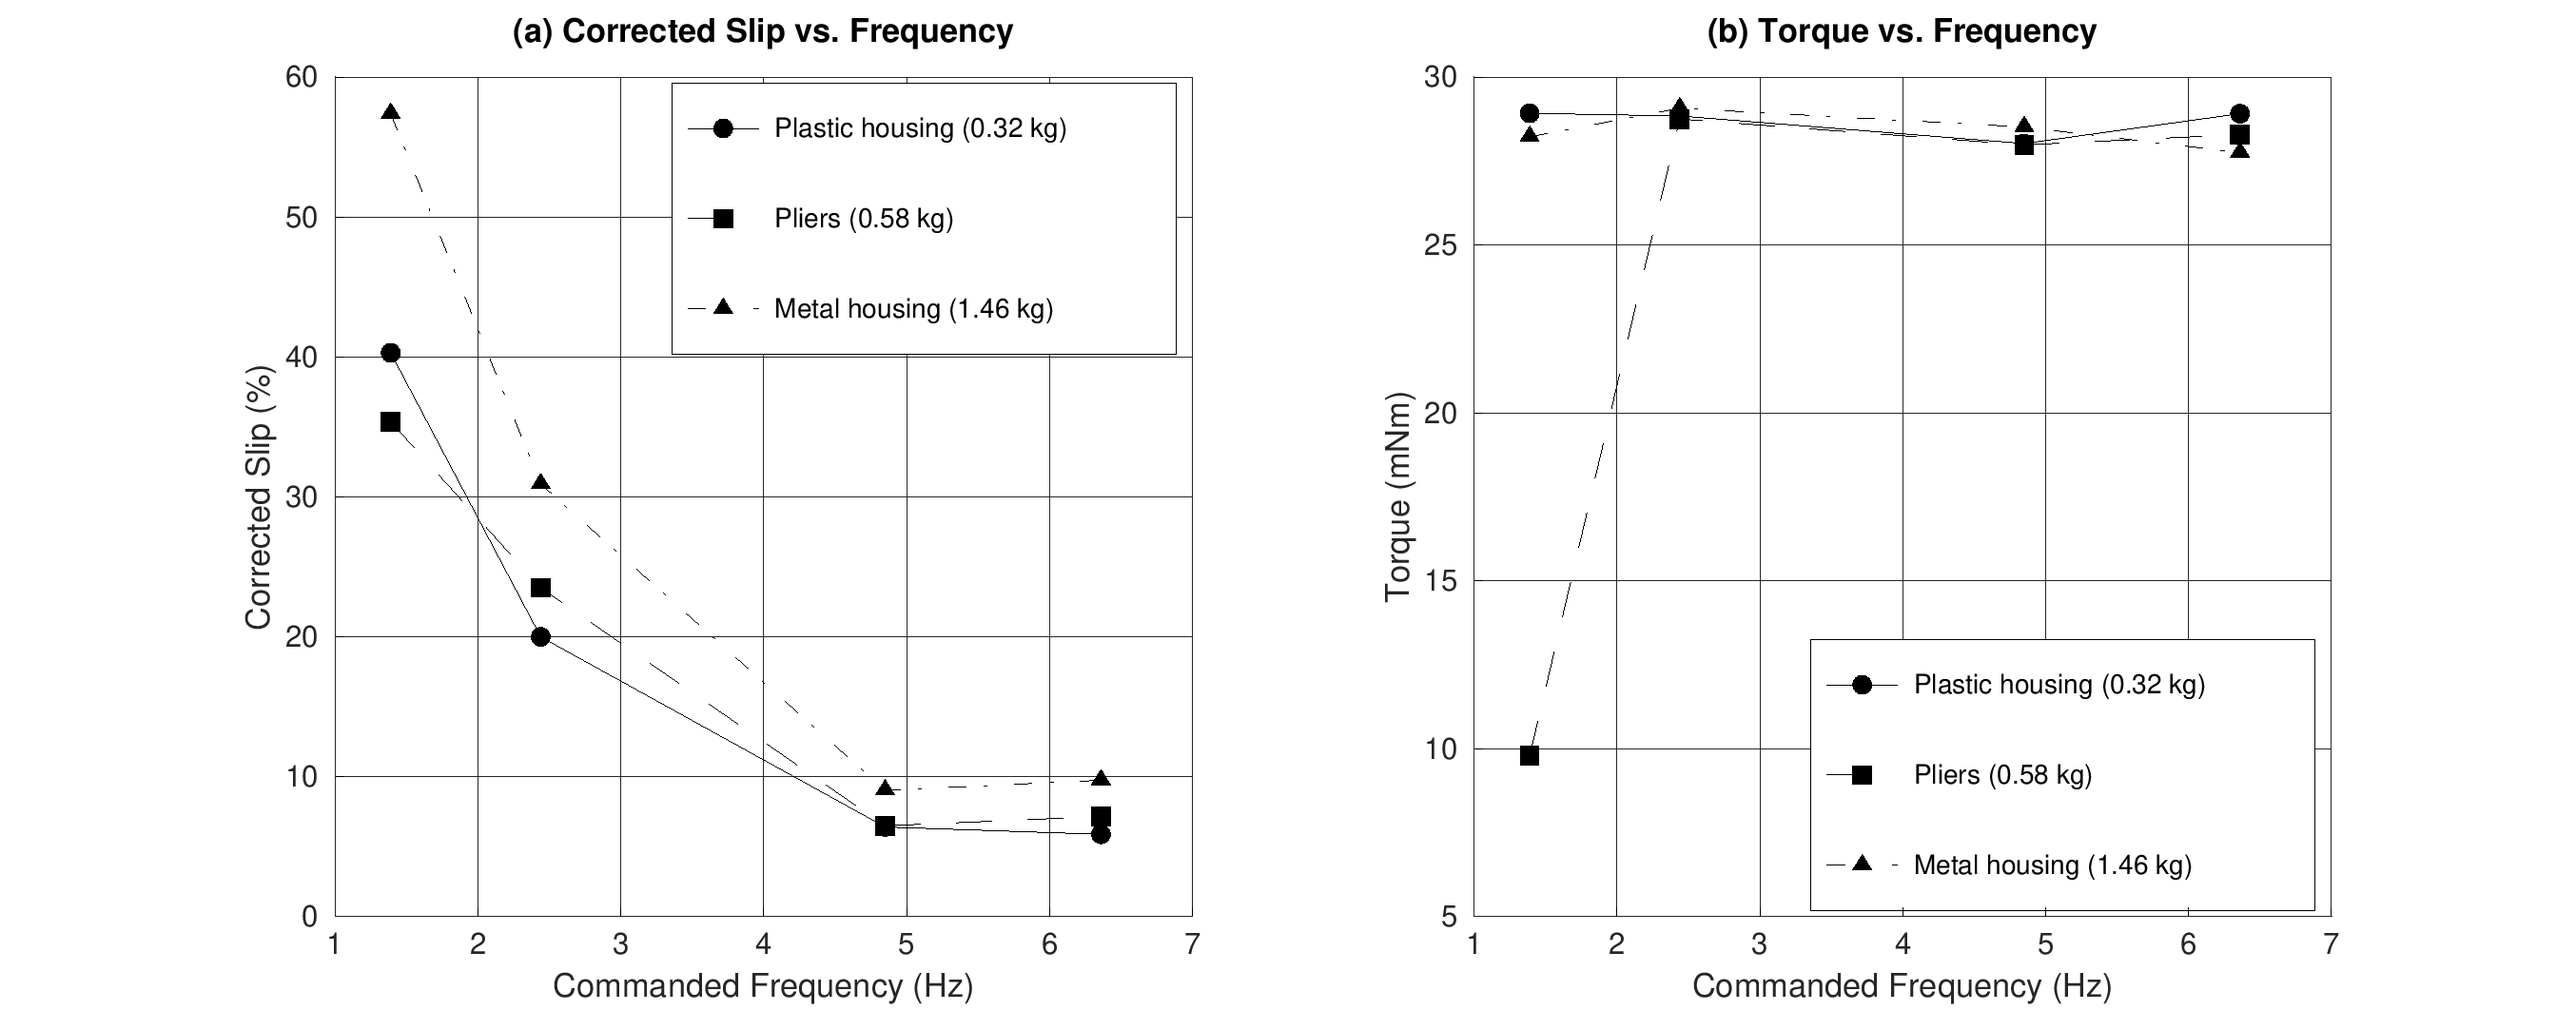
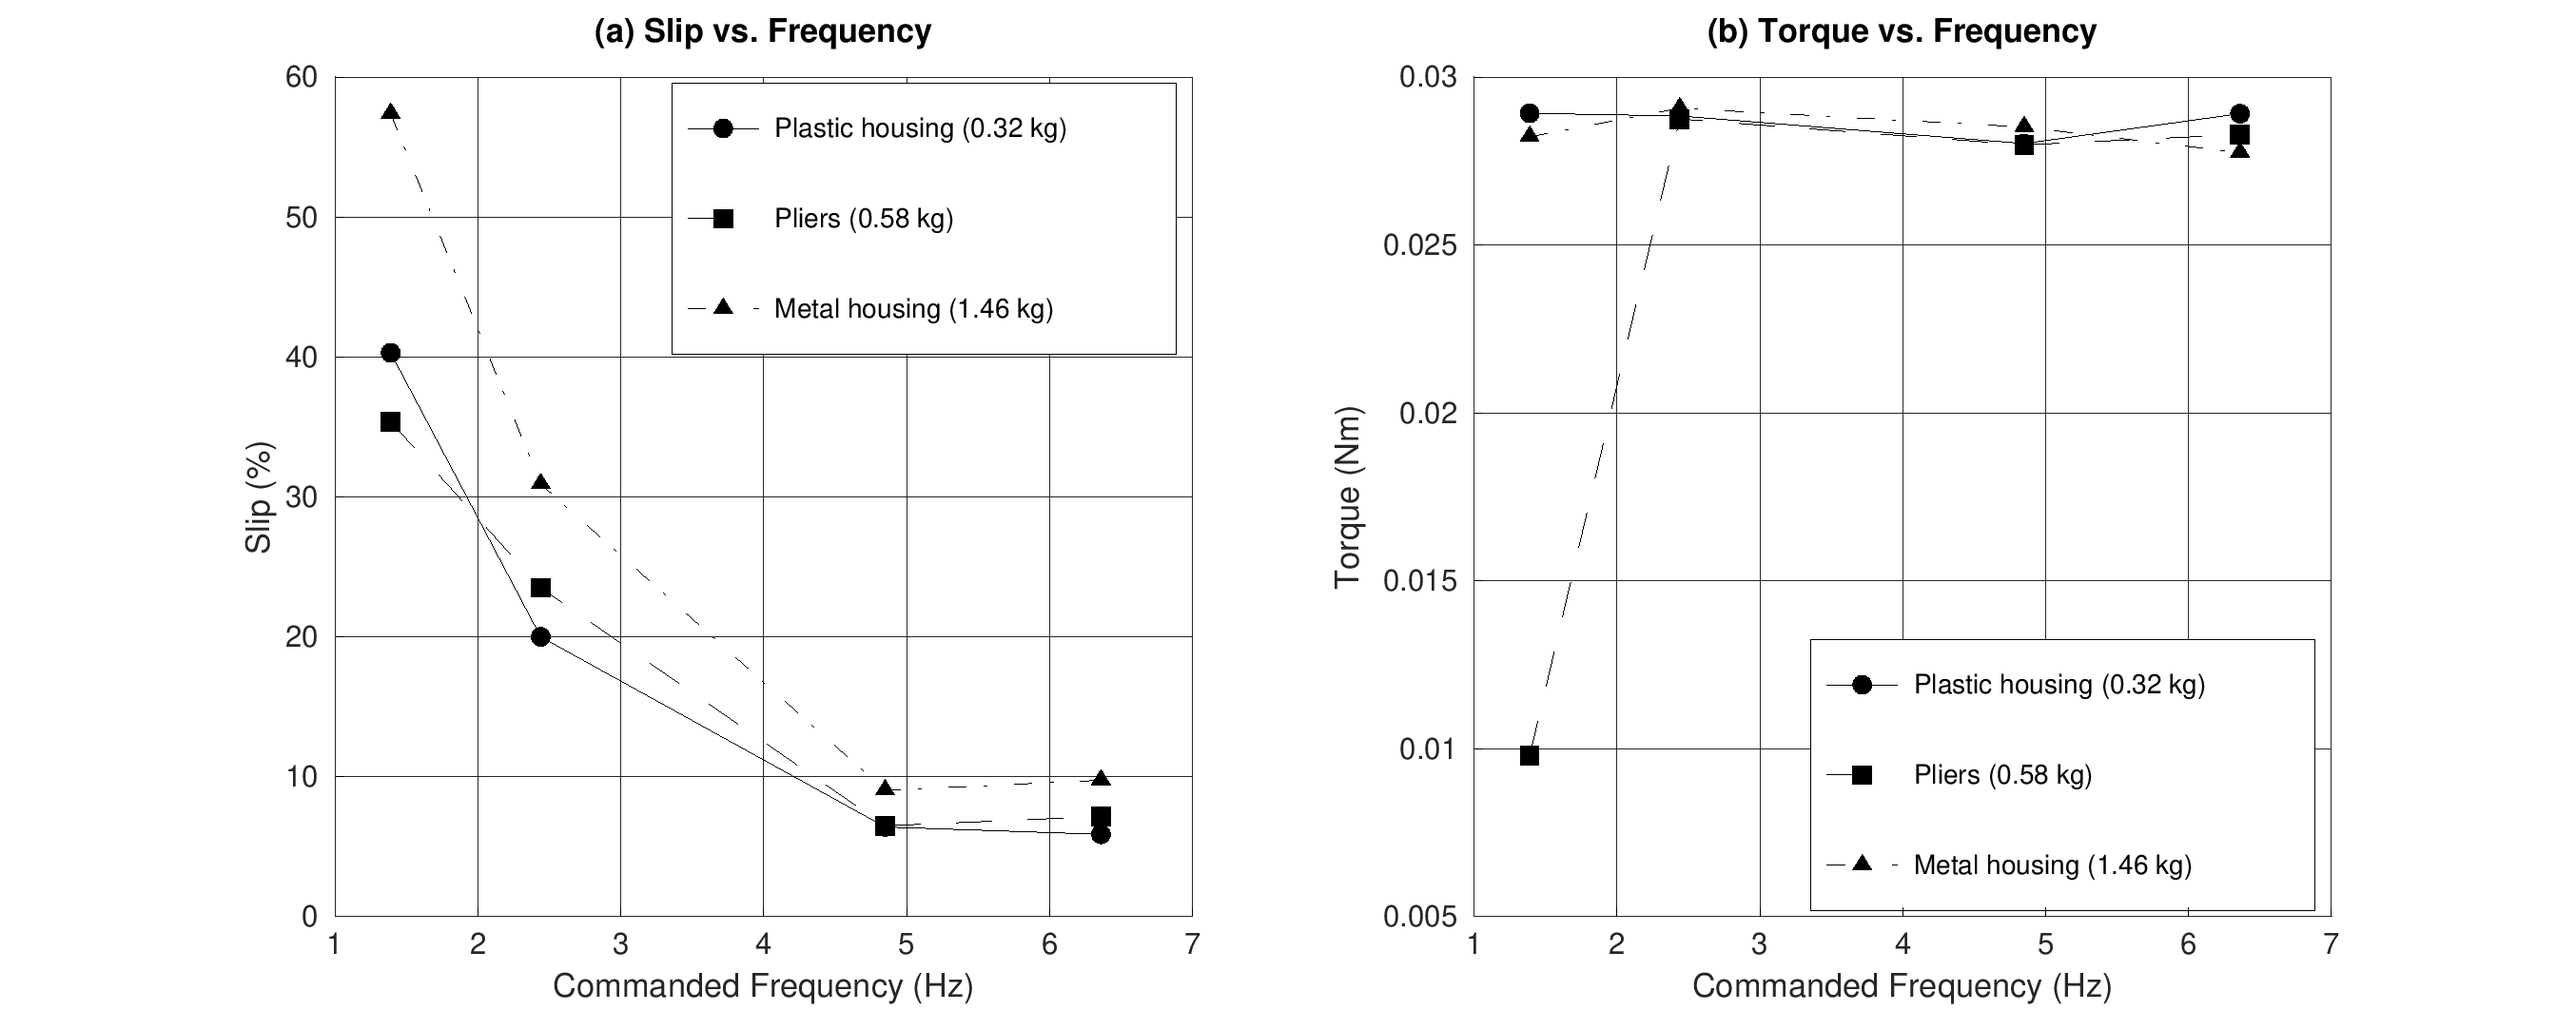
Rev 10 paper: resolve Rev 9 review decisions in figures/open-items
Applies the four tracked-changes contradictions David resolved (down-direction
slip/current removed since the motor has no dynamic braking, MRAS discussion
cut, Blind/Torque validation merged under one Validation section, BOM rows
simplified to a single Price=Cost each) plus three follow-up fixes from chat
(IV-B RPM-reading scope, dropped the SERVO 100-102%/correction narrative as
a distraction from the paper's main point, expanded the Conclusion's torque-
validation discussion) to generate_figures.m and its regenerated outputs.
The Word document itself (scratchpad, not tracked here) is Rev 10.

Claude-Session: https://claude.ai/code/session_01KDBgZS5sBDtdZcqbVDmcN3

diff --git a/tools/matlab/generate_figures.m b/tools/matlab/generate_figures.m
@@ -19,24 +19,33 @@
 %   fig1_block_diagram.png        Fig. 1  (schematic, no data - drawn, not plotted)
 %   (not produced here)           Fig. 2  (Drum_Rev_0 CAD render - see
 %                                           paper_rev0/build_paper.js's drum_cad.png)
-%   fig2_rs485_wiring.png         Fig. 3  (schematic, no data - drawn, not plotted;
+%   fig2_rs485_wiring.png         Fig. 4  (schematic, no data - drawn, not plotted;
 %                                           filename says fig2 because it was authored
 %                                           before the drum render's place in the
 %                                           document order was accounted for - the
-%                                           figure NUMBER used in the paper is 3)
-%   fig4_baseline_combined.png    Fig. 4
-%   fig5_calibration_fit.png      Fig. 5
-%   fig6_blind_validation.png     Fig. 6
-%   fig7_loocv_model_comparison.png Fig. 7
-%   fig8_torque_validation.png    Fig. 10 (independent torque-sensor validation)
+%                                           figure NUMBER used in the paper is 4)
+%   (not produced here)           Fig. 5  (raw USART2 screenshot - see
+%                                           paper_rev0/assets/raw_csv_screenshot.png)
+%   fig4_baseline_combined.png    Fig. 6  (no-load baseline, up direction only - Rev 10
+%                                           dropped down-direction data entirely; see
+%                                           note below)
+%   fig5_calibration_fit.png      Fig. 7
+%   fig6_blind_validation.png     Fig. 8
+%   fig7_loocv_model_comparison.png Fig. 10
+%   fig8_torque_validation.png    Fig. 9  (independent torque-sensor validation; Rev 10
+%                                           converted its torque axis from mN*m to N*m)
 %
-% Fig. 1/2 are drawn schematics (wiring per docs/wiring.md + Table III). Fig. 4/5 are
+% Fig. 1/2 are drawn schematics (wiring per docs/wiring.md + Table III). Fig. 6/7 are
 % computed directly from the real groups.csv files checked into the repo (genuine
-% recomputation, not hardcoded). Fig. 6/7 reproduce the already-reported blind-
-% validation and LOOCV results (Tables VIII/IX of the paper) - those specific held-out
+% recomputation, not hardcoded). Fig. 8/10 reproduce the already-reported blind-
+% validation and LOOCV results (Tables VIII/XI of the paper) - those specific held-out
 % sessions were analyzed ad hoc and are not re-derivable from a groups.csv in this
 % repo, so their numbers are transcribed here from the paper with a comment at each
 % one, not recomputed.
+%
+% Rev 10: down-direction (lowering) slip/current data removed from Fig. 6 entirely -
+% the motor has no dynamic braking, so down-direction readings were never physically
+% meaningful and were never used in the paper's model (David's call, Rev 9 review).
 
 clear; clc; close all;
 
@@ -177,51 +186,41 @@ saveas(fig, fullfile(OUT_DIR, 'fig2_rs485_wiring.png'));
 close(fig);
 
 % ============================================================================
-% Figure 4: No-load baseline - slip and current vs. frequency, two panels
-% (Fig. 3 is the Drum_Rev_0 CAD render, produced separately - not by this script)
+% Figure 6: No-load baseline - slip and current vs. frequency, two panels,
+% up direction only (Rev 10: down-direction dropped entirely - no dynamic
+% braking on this motor, so down-direction readings were never physically
+% meaningful and were never used in the paper's model).
+% (Fig. 2 is the Drum_Rev_0 CAD render, produced separately - not by this script)
 % ============================================================================
 fig = figure('Visible', 'off', 'Position', [0 0 1300 520]);
 is_noload = (total_kg == 0);
 
 % Plot against the fixed 4-point frequency grid, NaN-filled where no no-load
-% run exists at that freq/direction, so a missing point breaks the line
-% (no false interpolation) instead of silently connecting across the gap.
-grid_slip_up = nan(1, numel(TARGET_FREQS)); grid_slip_down = grid_slip_up;
-grid_cur_up = grid_slip_up; grid_cur_down = grid_slip_up;
+% run exists at that freq, so a missing point breaks the line (no false
+% interpolation) instead of silently connecting across the gap.
+grid_slip_up = nan(1, numel(TARGET_FREQS));
+grid_cur_up = grid_slip_up;
 for k = 1:numel(TARGET_FREQS)
   tf = TARGET_FREQS(k);
   mu = is_noload & strcmp(direction, 'up') & (bucket == tf);
-  md = is_noload & strcmp(direction, 'down') & (bucket == tf);
   if any(mu); grid_slip_up(k) = slip_mean(find(mu, 1)); grid_cur_up(k) = current_mean(find(mu, 1)); end
-  if any(md); grid_slip_down(k) = slip_mean(find(md, 1)); grid_cur_down(k) = current_mean(find(md, 1)); end
 end
 
-% No-load down @ 4.85 Hz is not in any groups.csv (the analysis pipeline only
-% keeps points with a matching steady current row), but it IS a real, sourced
-% reading: Baseline_Test_Data_2026-10-05.docx Section 5.4 records a shaft RPM
-% of 141 read by eye for that down run (sync RPM assumed equal to the one
-% logged run that session, 145.4), giving slip = 0.030. No current was ever
-% logged for that specific run (the doc marks it "-"), so the current panel
-% correctly keeps its gap here while the slip panel does not.
-grid_slip_down(TARGET_FREQS == 4.85) = 0.030;
-
 subplot(1, 2, 1); hold on;
-plot(TARGET_FREQS, grid_slip_up, '-o', 'LineWidth', 2, 'MarkerSize', 8, 'Color', 'k', 'MarkerFaceColor', 'k', 'DisplayName', 'Up (lifting)');
-plot(TARGET_FREQS, grid_slip_down, '--s', 'LineWidth', 2, 'MarkerSize', 8, 'Color', 'k', 'MarkerFaceColor', 'k', 'DisplayName', 'Down (lowering)');
+plot(TARGET_FREQS, grid_slip_up, '-o', 'LineWidth', 2, 'MarkerSize', 8, 'Color', 'k', 'MarkerFaceColor', 'k');
 xlabel('Commanded Frequency (Hz)'); ylabel('Slip (fractional)');
-title('(a) Slip vs. Frequency'); legend('Location', 'northeast'); grid on;
+title('(a) Slip vs. Frequency'); grid on;
 
 subplot(1, 2, 2); hold on;
-plot(TARGET_FREQS, grid_cur_up, '-o', 'LineWidth', 2, 'MarkerSize', 8, 'Color', 'k', 'MarkerFaceColor', 'k', 'DisplayName', 'Up (lifting)');
-plot(TARGET_FREQS, grid_cur_down, '--s', 'LineWidth', 2, 'MarkerSize', 8, 'Color', 'k', 'MarkerFaceColor', 'k', 'DisplayName', 'Down (lowering)');
+plot(TARGET_FREQS, grid_cur_up, '-o', 'LineWidth', 2, 'MarkerSize', 8, 'Color', 'k', 'MarkerFaceColor', 'k');
 xlabel('Commanded Frequency (Hz)'); ylabel('Output Current (A)');
-title('(b) Output Current vs. Frequency'); legend('Location', 'northwest'); grid on;
+title('(b) Output Current vs. Frequency'); grid on;
 
 saveas(fig, fullfile(OUT_DIR, 'fig4_baseline_combined.png'));
 close(fig);
 
 % ============================================================================
-% Figure 5: Calibrated model - current vs load, up-direction, one fit per frequency
+% Figure 7 (paper Fig. 7): Calibrated model - current vs load, up-direction, one fit per frequency
 % ============================================================================
 fig = figure('Visible', 'off', 'Position', [0 0 1000 680]);
 hold on;
@@ -253,7 +252,7 @@ saveas(fig, fullfile(OUT_DIR, 'fig5_calibration_fit.png'));
 close(fig);
 
 % ============================================================================
-% Figure 6: Blind validation - predicted vs. actual
+% Figure 8 (paper Fig. 8): Blind validation - predicted vs. actual
 % Transcribed from Table VIII of the paper (Resistor 1/2, T-housing - these
 % sessions' raw data was analyzed ad hoc and is not checked into results/ as a
 % groups.csv).
@@ -279,8 +278,8 @@ saveas(fig, fullfile(OUT_DIR, 'fig6_blind_validation.png'));
 close(fig);
 
 % ============================================================================
-% Figure 7: LOOCV error by model form
-% Transcribed from Table IX of the paper (leave-one-out cross-validation across
+% Figure 10 (paper Fig. 10): LOOCV error by model form
+% Transcribed from Table XI of the paper (leave-one-out cross-validation across
 % all 17 real calibration points - the exact procedure tools/model/fit_model.py
 % uses; reproducing it here would require porting that fitting/CV logic to Octave,
 % not just replotting its output, so the reported numbers are used directly).
@@ -292,7 +291,7 @@ fig = figure('Visible', 'off', 'Position', [0 0 900 620]);
 bar(mape, 'FaceColor', [0.75 0.75 0.75], 'EdgeColor', 'k', 'LineWidth', 1.2);
 set(gca, 'XTickLabel', model_forms, 'Position', [0.10 0.24 0.86 0.62]);
 ylabel('MAPE (%)');
-title('LOOCV Error by Model Form - More Complexity Does Not Help');
+title('LOOCV Error by Model Form');
 ylim([0 70]); grid on;
 for i = 1:numel(mape)
   text(i, mape(i) + 1.5, sprintf('%.1f%%', mape(i)), 'HorizontalAlignment', 'center');
@@ -301,28 +300,26 @@ saveas(fig, fullfile(OUT_DIR, 'fig7_loocv_model_comparison.png'));
 close(fig);
 
 % ============================================================================
-% Figure 10: Independent torque-sensor validation (SERVO Machine Test System)
+% Figure 9 (paper Fig. 9): Independent torque-sensor validation (SERVO Machine Test System)
 % Transcribed from raw ActiveServo (.acts) capture files recorded directly off
 % the Lucas Nulle SERVO Machine Test System's own torque/speed sensor in
 % Nov 2026 - not in results/*/analysis/groups.csv, so not re-derivable from
 % this repo's normal pipeline (same situation as Fig. 6/7). 12 captures total:
 % 3 known objects x the same 4 commanded frequencies used throughout
-% calibration, ~20-30 marker points per capture.
+% calibration, ~20-30 marker points per capture. Current is not among the
+% channels this sensor captures (speed/slip and torque only).
 %
-% The SERVO system has no link to the VFD's commanded frequency, so its own
-% live "s/%" slip readout assumes the wrong (default) synchronous speed and is
-% unusable as-is. Slip shown here is recomputed from the sensor's raw speed
-% channel using this project's own known Ns = 120*f/P for whatever frequency
-% was actually commanded - the correct, usable number. Torque is read directly
-% off the sensor and needs no such correction.
+% Slip shown here is the sensor's raw speed channel converted to slip using
+% this project's own known Ns = 120*f/P for whatever frequency was actually
+% commanded. Torque is read directly off the sensor.
 % ============================================================================
 tv_freqs = [1.39, 2.44, 4.85, 6.36];
-% object, torque (mN*m, engineering-notation SI prefix - raw values were
-% sub-0.03 N*m, awkward with leading zeros) by freq, corrected slip (%) by freq
+% object, torque (N*m; converted from the raw mN*m sensor readings) by freq,
+% slip (%) by freq
 tv_objects = {
-  {'Plastic housing (0.32 kg)', [28.92, 28.84, 28.02, 28.91], [40.29, 19.99, 6.41, 5.88]}, ...
-  {'Pliers (0.58 kg)',          [9.79, 28.75, 27.98, 28.29], [35.37, 23.50, 6.49, 7.16]}, ...
-  {'Metal housing (1.46 kg)',   [28.22, 29.07, 28.51, 27.75], [57.37, 30.91, 9.03, 9.75]}  ...
+  {'Plastic housing (0.32 kg)', [0.02892, 0.02884, 0.02802, 0.02891], [40.29, 19.99, 6.41, 5.88]}, ...
+  {'Pliers (0.58 kg)',          [0.00979, 0.02875, 0.02798, 0.02829], [35.37, 23.50, 6.49, 7.16]}, ...
+  {'Metal housing (1.46 kg)',   [0.02822, 0.02907, 0.02851, 0.02775], [57.37, 30.91, 9.03, 9.75]}  ...
 };
 tv_markers = {'o', 's', '^'};
 tv_linestyles = {'-', '--', '-.'};
@@ -335,15 +332,15 @@ for k = 1:numel(tv_objects)
   plot(tv_freqs, tv_objects{k}{3}, [tv_linestyles{k} tv_markers{k}], 'MarkerSize', 9, 'LineWidth', 1.8, ...
        'Color', 'k', 'MarkerFaceColor', tv_facecolors{k}, 'MarkerEdgeColor', 'k', 'DisplayName', tv_objects{k}{1});
 end
-xlabel('Commanded Frequency (Hz)'); ylabel('Corrected Slip (%)');
-title('(a) Corrected Slip vs. Frequency'); legend('Location', 'northeast'); grid on;
+xlabel('Commanded Frequency (Hz)'); ylabel('Slip (%)');
+title('(a) Slip vs. Frequency'); legend('Location', 'northeast'); grid on;
 
 subplot(1, 2, 2); hold on;
 for k = 1:numel(tv_objects)
   plot(tv_freqs, tv_objects{k}{2}, [tv_linestyles{k} tv_markers{k}], 'MarkerSize', 9, 'LineWidth', 1.8, ...
        'Color', 'k', 'MarkerFaceColor', tv_facecolors{k}, 'MarkerEdgeColor', 'k', 'DisplayName', tv_objects{k}{1});
 end
-xlabel('Commanded Frequency (Hz)'); ylabel('Torque (mN\cdotm)');
+xlabel('Commanded Frequency (Hz)'); ylabel('Torque (N\cdotm)');
 title('(b) Torque vs. Frequency'); legend('Location', 'southeast'); grid on;
 
 saveas(fig, fullfile(OUT_DIR, 'fig8_torque_validation.png'));

diff --git a/docs/open-items.md b/docs/open-items.md
@@ -105,6 +105,49 @@ of scope for the bare Nucleo without an added Ethernet/WiFi module).
 
 ## Resolved
 
+- **Down-direction (lowering) slip/current data removed from Table VI, Fig. 6, and the
+  model entirely (Rev 10)** — three of David's own Rev 9 comments on Table VI/Fig. 6
+  contradicted each other about whether down-direction data should be included. David's
+  resolution: remove it entirely, since the motor has no dynamic braking and
+  down-direction current/slip readings were never physically meaningful or actually used
+  in the paper's current-based model. Table VI is now up-direction only (Freq/Slip/
+  Current), Fig. 6 regenerated as a single-series two-panel plot, and
+  `generate_figures.m` updated to match.
+- **MRAS (Model Reference Adaptive System) discussion removed from Related Work
+  (Rev 10)** — David's comment ("Need to expand on what these are or remove them if not
+  needed") resolved as: remove. The Utrata and Rolek [2] MRAS-speed-estimator sentence
+  was cut from Section II; reference [2] stays in the References list uncited,
+  consistent with the A10 precedent that extra references don't need an in-body
+  citation.
+- **Blind Validation and Independent Torque-Based Validation merged under one
+  Validation section (Rev 10)** — David's comment on the torque-validation heading
+  asked whether it could be grouped with Blind Validation "within the same chapter."
+  Resolved as: Section V-C ("Validation") now contains two subsections, V-C1 (Blind
+  Validation) and V-C2 (Independent Torque-Based Validation); the "Is This a Modeling
+  Problem?" (LOOCV) section moved after both, keeping its own letter (V-D) but its
+  table/figure renumbered (Table IX→XI, Fig. 9→10) to stay in document order. All
+  cross-references to the old V-C/V-D/V-E throughout the paper were updated to match.
+- **Bill of Materials (Table II) simplified to a single real Price/Cost per row
+  (Rev 10)** — the prorated-cost framework (pack price vs. fraction-of-pack-used cost)
+  was being removed per David's tracked edits, but left two rows (timing belt, RS-485
+  module) with a blank Price cell and a stale "$99.34 vs. $117.14" comparison sentence.
+  David's call: show one real price per row (what was actually paid for that purchase,
+  not prorated). New total out-of-pocket cost is $117.14 (every component at its actual
+  purchase price); reference cost including the lab-provided STM32/VFD at list price is
+  roughly $385.
+- **Section IV-B shaft-RPM-reading scope and validation-narrative trims (Rev 10)** —
+  three follow-up fixes from David after the main Rev 9 review pass: (1) Section IV-B's
+  "only ever taken by hand" claim about the shaft RPM reading now explicitly scopes to
+  this project's own calibration/deployment workflow and cross-references the
+  independent SERVO-based validation (Section V-C2), which obtained slip electronically
+  instead, with no hand reading involved; (2) the "100-102%"/raw-channel-correction
+  explanation was removed from Section V-C2 entirely ("takes away from the main purpose
+  of the paper," David's words) — the section now presents Table IX directly without
+  narrating why the SERVO's own slip readout needed correction, and "Corrected" was
+  dropped from Table X's header/title for the same reason; (3) the Conclusion
+  (Section VII) was expanded to explicitly state what the independent torque-based
+  validation confirmed (the integrity of the slip-load relationship), not just the
+  one-clause mention it had before.
 - **3-sig-fig / units / engineering-notation pass (Rev 9)** — every measured or
   derived number in the paper and all three decks (Tables VI, VII, VIII, IX, X, XI)
   standardized to 3 significant figures using the most precise available source data
